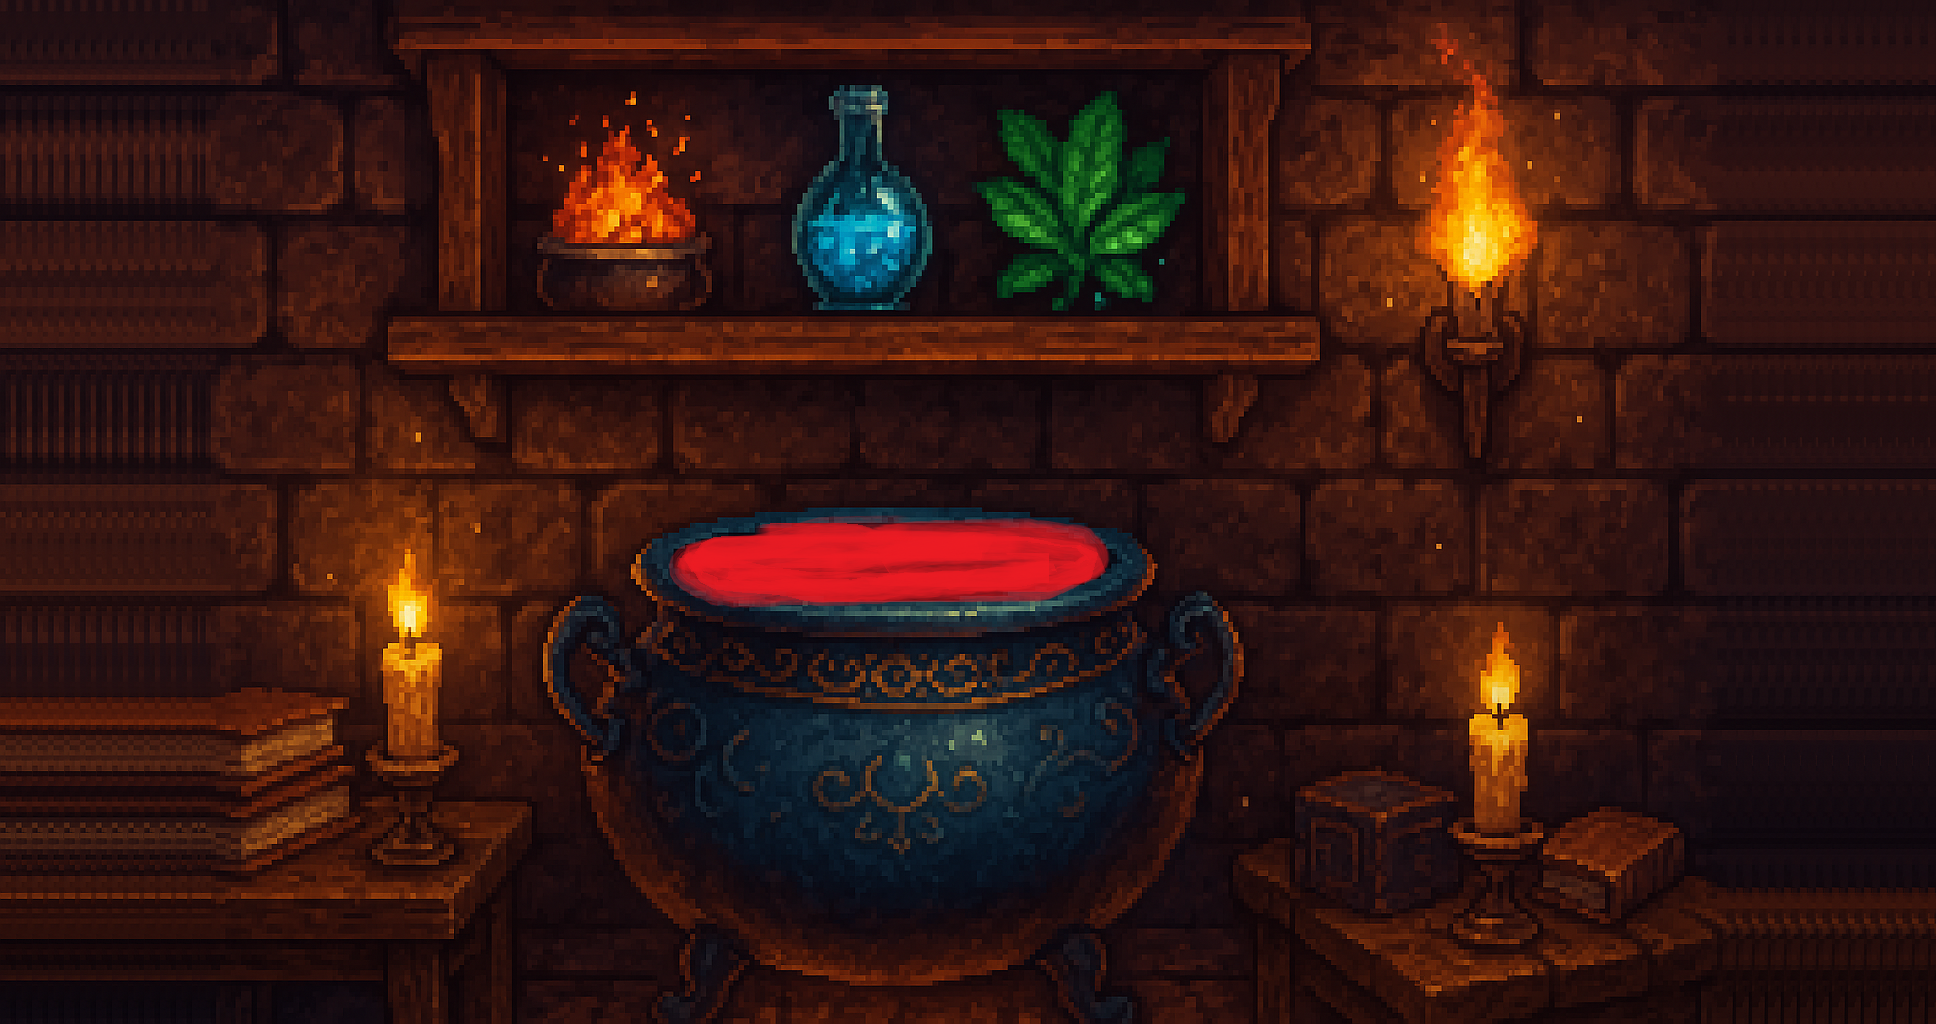
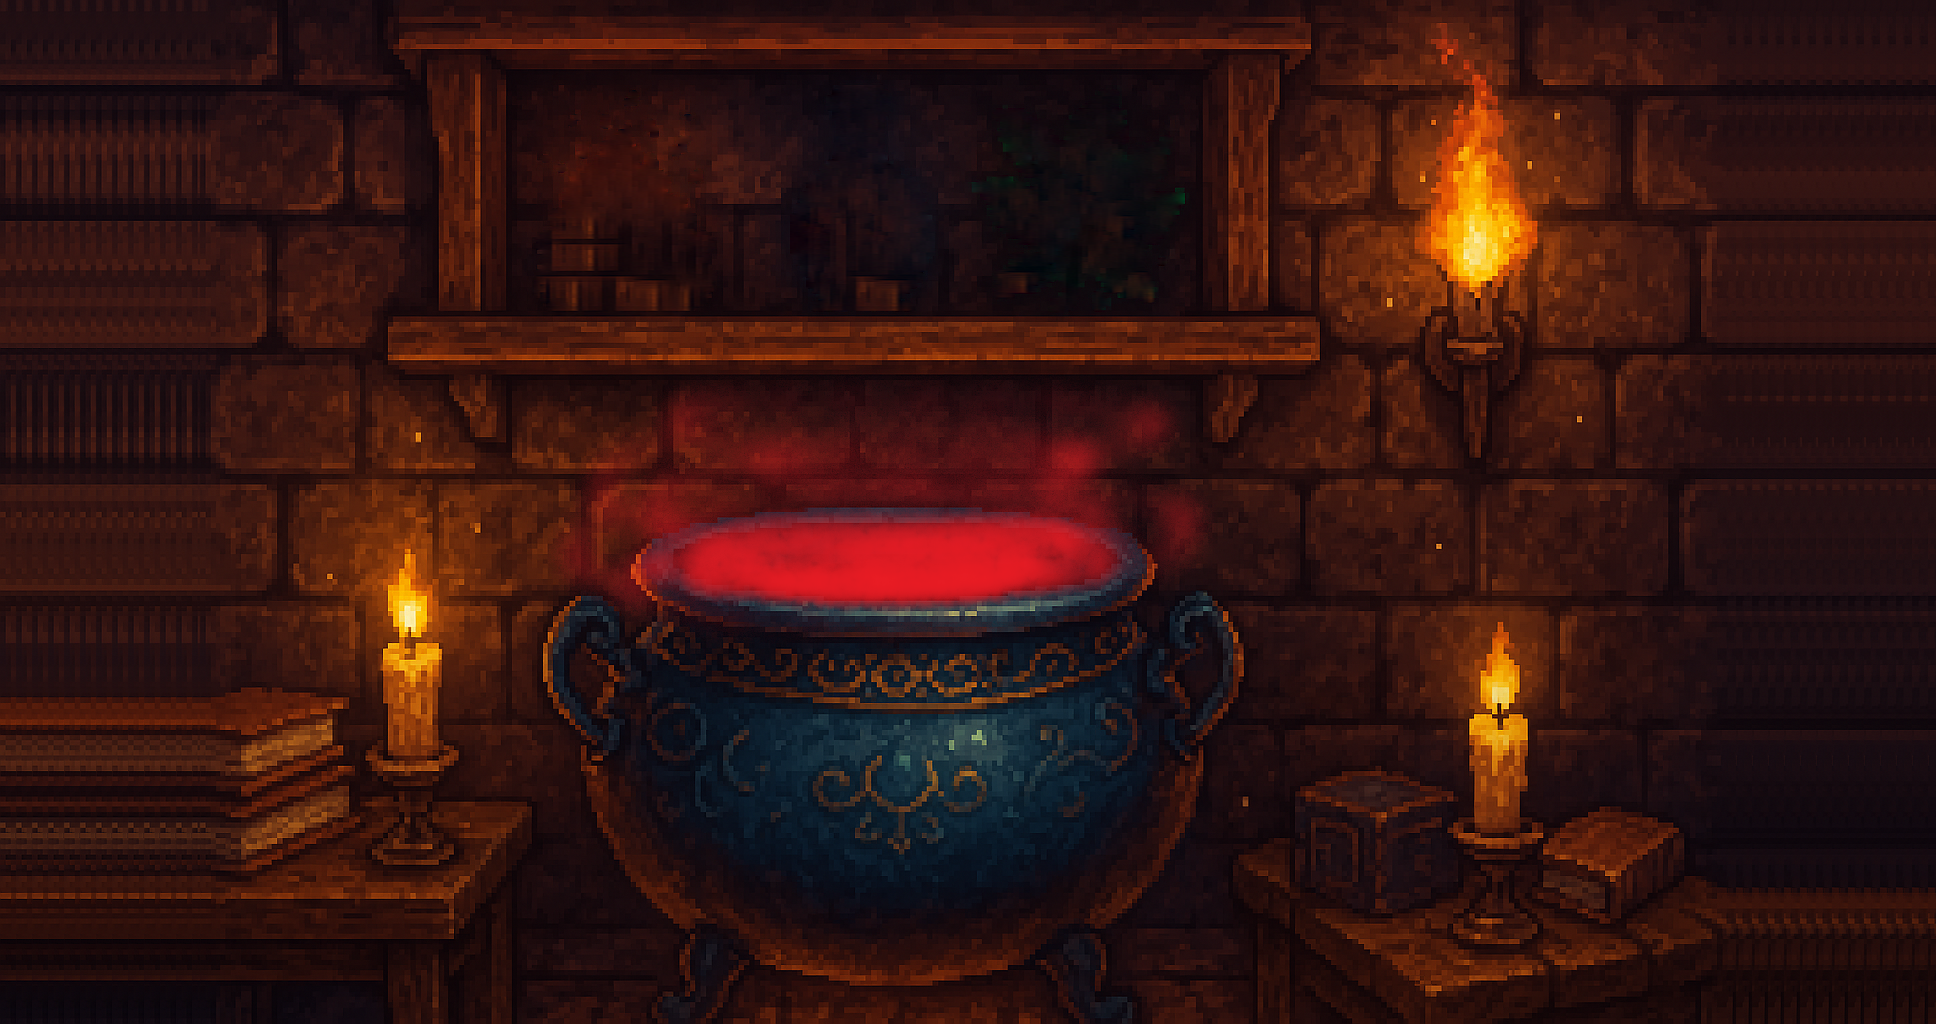
0624

Changed region(s): [[0.2789, 0.375, 0.6198, 0.5938], [0.4029, 0.0625, 0.6198, 0.3125], [0.2789, 0.0938, 0.3719, 0.3125]]

diff --git a/Potion.html b/Potion.html
@@ -2,106 +2,155 @@
 <html lang="ko">
 <head>
   <meta charset="UTF-8">
-  <title>연금술 항아리</title>
+  <title>연금술 항아리 - 드래그 앤 드롭</title>
   <style>
+    :root {
+      --drop-zone-width: 500px;
+      --drop-zone-height: 420px;
+      --drop-zone-left: 48%;
+      --drop-zone-bottom: 6%;
+
+      --reset-left: 76%;
+      --reset-bottom: 75%;
+    }
+
     * {
       margin: 0;
       padding: 0;
+      box-sizing: border-box;
     }
 
     html, body {
       height: 100%;
+      width: 100%;
       font-family: sans-serif;
-      text-align: center;
-    }
-
-    input[type="checkbox"] {
-      display: none;
+      background-color: #222;
     }
 
     .wrapper {
       position: relative;
       height: 100vh;
+      width: 100vw;
+      background-image: url('./image/Jars/NoneJar.png');
       background-size: cover;
       background-repeat: no-repeat;
       background-position: center;
-      transition: background-image 0.3s;
-      background-image: url('./image/Jars/ExJar.png');
+      transition: background-image 0.3s ease-in-out;
     }
-    .text, .material-label {
+
+    .ingredients {
       position: absolute;
-      font-size: 2em;
-      font-weight: bold;
-      color: white;
-      text-shadow: 2px 2px 5px black;
-      z-index: 2;
-    }
-
-    .text {
-      top: 10%;
-      left: 50%;
-      transform: translateX(-50%);
-    }
-
-    .label-red {
-      bottom: 75%;
-      left: 28%;
-      cursor: pointer;
-    }
-
-    .label-blue {
-      bottom: 75%;
+      top: 4.2%;
       left: 45%;
       transform: translateX(-50%);
+      display: flex;
+      gap: 20px;
+      z-index: 10;
+    }
+
+    .ingredient {
+      cursor: grab;
+      transition: opacity 0.3s ease;
+      user-select: none;
+    }
+
+    .drop-zone {
+      position: absolute;
+      width: var(--drop-zone-width);
+      height: var(--drop-zone-height);
+      left: var(--drop-zone-left);
+      bottom: var(--drop-zone-bottom);
+      transform: translateX(-50%);
+      background: transparent;
+      border: none; /* ✅ 여기서 사각형 제거 */
+      z-index: 5;
+      pointer-events: auto;
+    }
+
+    .reset-button {
+      position: absolute;
+      bottom: var(--reset-bottom);
+      left: var(--reset-left);
+      transform: translateX(-50%);
+      color: white;
+      font-size: 1.2em;
+      text-decoration: none;
       cursor: pointer;
-    }
-
-    .label-green {
-      bottom: 75%;
-      right: 40%;
-      cursor: pointer;
-    }
-
-    #red:checked ~ #blue:not(:checked) ~ #green:not(:checked) ~ .wrapper {
-      background-image: url('./image/Jars/red.png');
-    }
-
-    #red:not(:checked) ~ #blue:checked ~ #green:not(:checked) ~ .wrapper {
-      background-image: url('./image/Jars/blue.png');
-    }
-
-    #red:not(:checked) ~ #blue:not(:checked) ~ #green:checked ~ .wrapper {
-      background-image: url('./image/Jars/green.png');
-    }
-
-    #red:checked ~ #blue:checked ~ #green:not(:checked) ~ .wrapper {
-      background-image: url('./image/Jars/purple.png');
-    }
-
-    #red:checked ~ #blue:not(:checked) ~ #green:checked ~ .wrapper {
-      background-image: url('./image/Jars/yellow.png');
-    }
-
-    #red:not(:checked) ~ #blue:checked ~ #green:checked ~ .wrapper {
-      background-image: url('./image/Jars/mint.png');
-    }
-
-    #red:checked ~ #blue:checked ~ #green:checked ~ .wrapper {
-      background-image: url('./image/Jars/white.png');
+      user-select: none;
+      z-index: 10;
     }
   </style>
 </head>
 <body>
-  <form>
-    <input type="checkbox" id="red">
-    <input type="checkbox" id="blue">
-    <input type="checkbox" id="green">
+  <div class="ingredients">
+    <img src="./image/Jars/Fire-removebg-preview.png" id="red" class="ingredient" draggable="true">
+    <img src="./image/Jars/Water-removebg-preview.png" id="blue" class="ingredient" draggable="true">
+    <img src="./image/Jars/leaf-removebg-preview.png" id="green" class="ingredient" draggable="true">
+  </div>
 
-    <div class="wrapper">
-      <label class="material-label label-red" for="red"><br></label>
-      <label class="material-label label-blue" for="blue"><br></label>
-      <label class="material-label label-green" for="green"><br></label>
-    </div>
-  </form>
+  <div class="wrapper">
+    <div class="drop-zone" ondragover="event.preventDefault()" ondrop="handleDrop(event)"></div>
+    <div class="reset-button" onclick="resetJar()"><br><br><br><br></div>
+  </div>
+
+  <script>
+    const droppedItems = new Set();
+    let currentDragged = null;
+    let droppedSuccessfully = false;
+
+    document.querySelectorAll('.ingredient').forEach(el => {
+      el.addEventListener('dragstart', e => {
+        currentDragged = e.target;
+        droppedSuccessfully = false;
+        e.dataTransfer.setData("text/plain", e.target.id);
+        e.target.style.opacity = '0';
+      });
+
+      el.addEventListener('dragend', () => {
+        if (!droppedSuccessfully && currentDragged) {
+          currentDragged.style.opacity = '1';
+        }
+        currentDragged = null;
+      });
+    });
+
+    function handleDrop(event) {
+      event.preventDefault();
+      const id = event.dataTransfer.getData("text/plain");
+
+      if (!droppedItems.has(id)) {
+        droppedItems.add(id);
+        document.getElementById(id).style.opacity = '0';
+        droppedSuccessfully = true;
+        updateJarImage();
+      }
+    }
+
+    function updateJarImage() {
+      const jar = document.querySelector('.wrapper');
+      const sorted = Array.from(droppedItems).sort().join('-');
+
+      const jarImages = {
+        'blue': 'blue.png',
+        'green': 'green.png',
+        'red': 'red.png',
+        'blue-green': 'mint.png',
+        'blue-red': 'purple.png',
+        'green-red': 'yellow.png',
+        'blue-green-red': 'white.png'
+      };
+
+      jar.style.backgroundImage = `url('./image/Jars/${jarImages[sorted] || 'NoneJar.png'}')`;
+    }
+
+    function resetJar() {
+      droppedItems.clear();
+      document.querySelectorAll('.ingredient').forEach(el => {
+        el.style.opacity = '1';
+        el.setAttribute('draggable', 'true');
+      });
+      document.querySelector('.wrapper').style.backgroundImage = "url('./image/Jars/NoneJar.png')";
+    }
+  </script>
 </body>
 </html>

diff --git a/Night.html b/Night.html
@@ -9,32 +9,36 @@
     html, body {
       height: 100%;
       margin: 0;
-      overflow: hidden;  
+      overflow: hidden;
     }
+
     body {
       background-image: url(./image/ExNight.png);
       background-size: cover;
       background-repeat: no-repeat;
       background-position: center;
       font-family: 'Cafe24Decobox';
+      position: relative;
       color: white;
-      position: relative;    
     }
+
     .container {
       position: relative;
       width: 100%;
       height: 100%;
     }
+
     .group {
       position: absolute;
       cursor: pointer;
       font-weight: bold;
     }
+
     .group.a { left: 20%; top: 25%; font-size: 150px; }
-    .group.b { left: 73%; top: 10%; font-size: 150px;}
-    .group.c { left: 20%; top: 60%; font-size: 150px;}
-    .group.d { left: 70%; top: 65%; font-size: 150px;}
-    .group.e { left: 55%; top: 47%; font-size: 150px;}
+    .group.b { left: 73%; top: 10%; font-size: 150px; }
+    .group.c { left: 20%; top: 60%; font-size: 150px; }
+    .group.d { left: 70%; top: 65%; font-size: 150px; }
+    .group.e { left: 55%; top: 47%; font-size: 150px; }
 
     .center-text {
       position: absolute;
@@ -63,6 +67,15 @@
     .group.e:hover ~ .center-text.e-text {
       opacity: 1;
     }
+
+    .shooting-star {
+      position: absolute;
+      opacity: 0.9;
+      filter: blur(1.5px);
+      z-index: 1;
+      pointer-events: none;
+      transition: transform 2.2s linear, opacity 2.2s linear;
+    }
   </style>
 </head>
 <body>
@@ -77,7 +90,63 @@
     <div class="center-text b-text">Cassiopei</div>
     <div class="center-text c-text">Cygnus</div>
     <div class="center-text d-text">Orion</div>
-    <div class="center-text e-text">Leo </div>
+    <div class="center-text e-text">Leo</div>
   </div>
+
+  <script>
+    const STAR_INTERVAL = 100; // 💡 별똥별 생성 주기(ms) → 숫자를 낮추면 많아지고, 높이면 줄어듦
+
+    const colors = [
+      '255, 255, 255',    // white
+      '255, 200, 200',    // soft pink
+      '200, 255, 255',    // soft blue
+      '200, 255, 200',    // soft green
+      '255, 255, 200',    // soft yellow
+      '255, 220, 180'     // peach
+    ];
+
+    function createShootingStar() {
+      const star = document.createElement('div');
+      star.classList.add('shooting-star');
+
+      // 랜덤 크기
+      const width = 2 + Math.random() * 3;
+      const height = 120 + Math.random() * 80;
+      star.style.width = `${width}px`;
+      star.style.height = `${height}px`;
+
+      // 랜덤 색상 선택
+      const color = colors[Math.floor(Math.random() * colors.length)];
+      star.style.background = `linear-gradient(to top, rgba(${color}, 1), rgba(${color}, 0))`;
+
+      // 시작 위치
+      const startX = Math.random() * window.innerWidth;
+      const startY = Math.random() * window.innerHeight * 0.3;
+
+      // 각도 70~110도
+      const angle = 70 + Math.random() * 40;
+      const rad = angle * Math.PI / 180;
+
+      const distance = 800 + Math.random() * 300;
+      const dx = Math.cos(rad) * distance;
+      const dy = Math.sin(rad) * distance;
+
+      star.style.left = `${startX}px`;
+      star.style.top = `${startY}px`;
+
+      document.body.appendChild(star);
+
+      requestAnimationFrame(() => {
+        star.style.transform = `translate(${dx}px, ${dy}px)`;
+        star.style.opacity = 0;
+      });
+
+      setTimeout(() => {
+        star.remove();
+      }, 2300);
+    }
+
+    setInterval(createShootingStar, STAR_INTERVAL);
+  </script>
 </body>
 </html>

diff --git a/BookIn/memo.html b/BookIn/memo.html
@@ -53,7 +53,24 @@
 <body>
   <div class="container">
     <div class="title">Memo</div>
-    <div class="memo" contenteditable="true"></div>
+    <div class="memo" contenteditable="true" id="memo"></div>
   </div>
+
+  <script>
+    const memoEl = document.getElementById('memo');
+
+    // 저장된 내용 불러오기
+    window.addEventListener('DOMContentLoaded', () => {
+      const saved = localStorage.getItem('memoContent');
+      if (saved) {
+        memoEl.innerText = saved;
+      }
+    });
+
+    // 입력 내용 저장
+    memoEl.addEventListener('input', () => {
+      localStorage.setItem('memoContent', memoEl.innerText);
+    });
+  </script>
 </body>
 </html>
